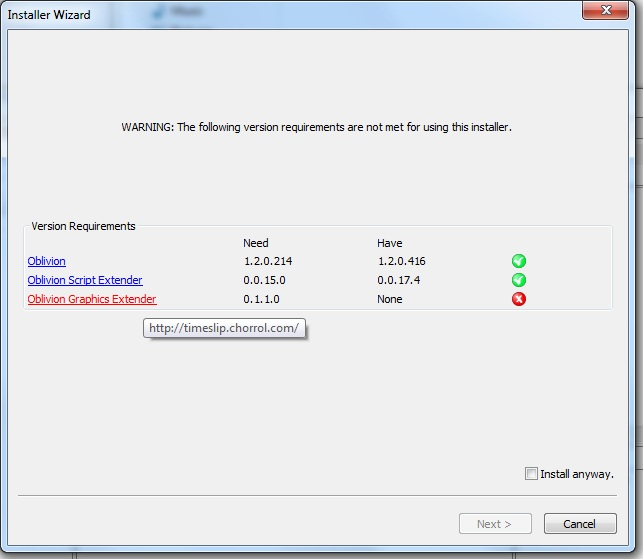
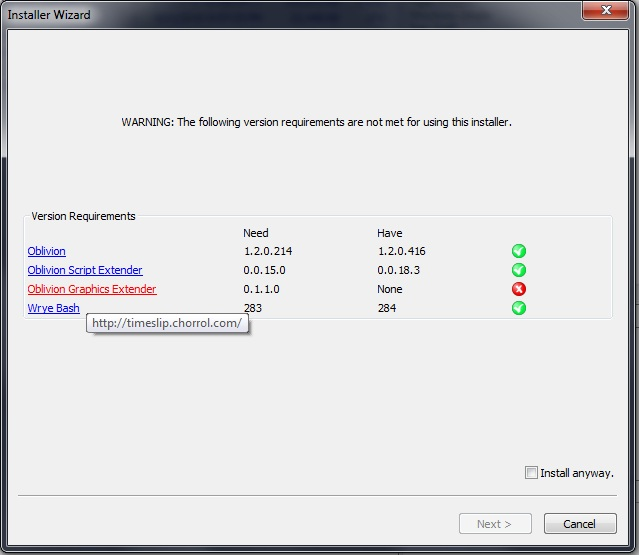
Updates to BAIN wizards: - New function 'CompareWBVersion' can check agains the Wrye Bash versions - Updated 'RequireVersions' to also be able to check the Wrye Bash version
git-svn-id: https://svn.code.sf.net/p/oblivionworks/code@312 c80116c5-1073-4541-b2a9-63b9fd661f84

diff --git a/Programs/Wrye Bash/Mopy/belt.py b/Programs/Wrye Bash/Mopy/belt.py
@@ -422,15 +422,16 @@ class PageFinish(PageInstaller):
 # PageVersions ---------------------------------------
 #  Page for displaying what versions an installer
 #  requires/recommends and what you have installed
-#  for Oblivion, OBSE, and OBGE
+#  for Oblivion, OBSE, and OBGE, and Wrye Bash
 #-----------------------------------------------------
 class PageVersions(PageInstaller):
-    def __init__(self, parent, bObOk, obHave, obNeed, bOBSEOk, obseHave, obseNeed, bOBGEOk, obgeHave, obgeNeed):
+    def __init__(self, parent, bObOk, obHave, obNeed, bOBSEOk, obseHave, obseNeed, bOBGEOk, obgeHave, obgeNeed, bWBOk, wbHave, wbNeed):
         PageInstaller.__init__(self, parent)
 
-        bmpGood = wx.Bitmap(bosh.dirs['mopy'].join('images', 'check.png').s)
-        bmpBad = wx.Bitmap(bosh.dirs['mopy'].join('images', 'x.png').s)
-        
+        bmp = [wx.Bitmap(bosh.dirs['mopy'].join('images', 'x.png').s),
+               wx.Bitmap(bosh.dirs['mopy'].join('images', 'check.png').s)
+               ] 
+
         sizerMain = wx.FlexGridSizer(5, 1, 0, 0)
 
         self.textWarning = wx.StaticText(self, 124, _('WARNING: The following version requirements are not met for using this installer.'))
@@ -438,7 +439,7 @@ class PageVersions(PageInstaller):
         sizerMain.Add(self.textWarning, 0, wx.ALL|wx.ALIGN_CENTER, 5)
 
         sizerVersionsTop = wx.StaticBoxSizer(wx.StaticBox(self, -1, _('Version Requirements')))
-        sizerVersions = wx.FlexGridSizer(4, 4, 5, 5)
+        sizerVersions = wx.FlexGridSizer(5, 4, 5, 5)
         sizerVersionsTop.Add(sizerVersions, 1, wx.EXPAND, 0)
 
         sizerVersions.AddStretchSpacer()
@@ -452,10 +453,7 @@ class PageVersions(PageInstaller):
         sizerVersions.Add(linkOb)
         sizerVersions.Add(wx.StaticText(self, -1, obNeed))
         sizerVersions.Add(wx.StaticText(self, -1, obHave))
-        if bObOk:
-            sizerVersions.Add(wx.StaticBitmap(self, -1, bmpGood))
-        else:
-            sizerVersions.Add(wx.StaticBitmap(self, -1, bmpBad))
+        sizerVersions.Add(wx.StaticBitmap(self, -1, bmp[bObOk]))
 
         linkOBSE = wx.HyperlinkCtrl(self, -1, 'Oblivion Script Extender', 'http://obse.silverlock.org/')
         linkOBSE.SetVisitedColour(linkOBSE.GetNormalColour())
@@ -463,10 +461,7 @@ class PageVersions(PageInstaller):
         sizerVersions.Add(linkOBSE)
         sizerVersions.Add(wx.StaticText(self, -1, obseNeed))
         sizerVersions.Add(wx.StaticText(self, -1, obseHave))
-        if bOBSEOk:
-            sizerVersions.Add(wx.StaticBitmap(self, -1, bmpGood))
-        else:
-            sizerVersions.Add(wx.StaticBitmap(self, -1, bmpBad))
+        sizerVersions.Add(wx.StaticBitmap(self, -1, bmp[bOBSEOk]))
 
         linkOBGE = wx.HyperlinkCtrl(self, -1, 'Oblivion Graphics Extender', 'http://timeslip.chorrol.com/obge.html')
         linkOBGE.SetVisitedColour(linkOBGE.GetNormalColour())
@@ -474,10 +469,15 @@ class PageVersions(PageInstaller):
         sizerVersions.Add(linkOBGE)
         sizerVersions.Add(wx.StaticText(self, -1, obgeNeed))
         sizerVersions.Add(wx.StaticText(self, -1, obgeHave))
-        if bOBGEOk:
-            sizerVersions.Add(wx.StaticBitmap(self, -1, bmpGood))
-        else:
-            sizerVersions.Add(wx.StaticBitmap(self, -1, bmpBad))
+        sizerVersions.Add(wx.StaticBitmap(self, -1, bmp[bOBGEOk]))
+
+        linkWB = wx.HyperlinkCtrl(self, -1, 'Wrye Bash', 'http://tesnexus.com/downloads/file.php?id=22368')
+        linkWB.SetVisitedColour(linkWB.GetNormalColour())
+        linkWB.SetToolTip(wx.ToolTip('http://tesnexus.com/'))
+        sizerVersions.Add(linkWB)
+        sizerVersions.Add(wx.StaticText(self, -1, wbNeed))
+        sizerVersions.Add(wx.StaticText(self, -1, wbHave))
+        sizerVersions.Add(wx.StaticBitmap(self, -1, bmp[bWBOk]))
 
         sizerVersions.AddGrowableCol(0)
         sizerVersions.AddGrowableCol(1)
@@ -570,6 +570,7 @@ class WryeParser(ScriptParser.Parser):
         self.SetFunction('CompareOblivionVersion', self.fnCompareOblivionVersion, 1)
         self.SetFunction('CompareOBSEVersion', self.fnCompareOBSEVersion, 1)
         self.SetFunction('CompareOBGEVersion', self.fnCompareOBGEVersion, 1)
+        self.SetFunction('CompareWBVersion', self.fnCompareWBVersion, 1)
         self.SetFunction('DataFileExists', self.fnDataFileExists, 1)
         #--Keywords
         self.SetKeyword('SelectSubPackage', self.kwdSelectSubPackage, 1)
@@ -593,7 +594,7 @@ class WryeParser(ScriptParser.Parser):
         self.SetKeyword('EndSelect', self.kwdEndSelect)
         self.SetKeyword('Return', self.kwdReturn)
         self.SetKeyword('Cancel', self.kwdCancel, 0, ScriptParser.KEY.NO_MAX)
-        self.SetKeyword('RequireVersions', self.kwdRequireVersions, 1, 3)
+        self.SetKeyword('RequireVersions', self.kwdRequireVersions, 1, 4)
 
 
     def Begin(self, file):
@@ -709,6 +710,9 @@ class WryeParser(ScriptParser.Parser):
     def fnCompareOBGEVersion(self, obgeWant):
         ret = self._TestVersion(self._TestVersion_Want(obgeWant), bosh.dirs['mods'].join('obse', 'plugins', 'obge.dll'))
         return ret[0]
+    def fnCompareWBVersion(self, wbWant):
+        wbHave = bosh.settings['bash.readme'][1]
+        return cmp(wbHave, wbWant)
     def fnDataFileExists(self, filename):
         return bosh.dirs['mods'].join(filename).exists()
 
@@ -864,7 +868,7 @@ class WryeParser(ScriptParser.Parser):
             else:
                 temp.append(str(i.text))
         self.notes.append('- %s\n' % ' '.join(temp))
-    def kwdRequireVersions(self, ob, obse='None', obge='None'):
+    def kwdRequireVersions(self, ob, obse='None', obge='None', wbWant=0):
         if self.bAuto: return
         
         obWant = self._TestVersion_Want(ob)
@@ -873,6 +877,7 @@ class WryeParser(ScriptParser.Parser):
         if obseWant == 'None': obse = 'None'
         obgeWant = self._TestVersion_Want(obge)
         if obgeWant == 'None': obge = 'None'
+        wbHave = bosh.settings['bash.readme'][1]
 
         ret = self._TestVersion(obWant, bosh.dirs['app'].join('oblivion.exe'))
         bObOk = ret[0] >= 0
@@ -883,9 +888,10 @@ class WryeParser(ScriptParser.Parser):
         ret = self._TestVersion(obgeWant, bosh.dirs['mods'].join('obse', 'plugins', 'obge.dll'))
         bOBGEOk = ret[0] >= 0
         obgeHave = ret[1]
+        bWBOk = wbHave >= wbWant
 
         if not bObOk or not bOBSEOk or not bOBGEOk:
-            self.page = PageVersions(self.parent, bObOk, obHave, ob, bOBSEOk, obseHave, obse, bOBGEOk, obgeHave, obge)
+            self.page = PageVersions(self.parent, bObOk, obHave, ob, bOBSEOk, obseHave, obse, bOBGEOk, obgeHave, obge, bWBOk, wbHave, wbWant)
     def _TestVersion_Want(self, want):
         try:
             need = [int(i) for i in want.split('.')]
